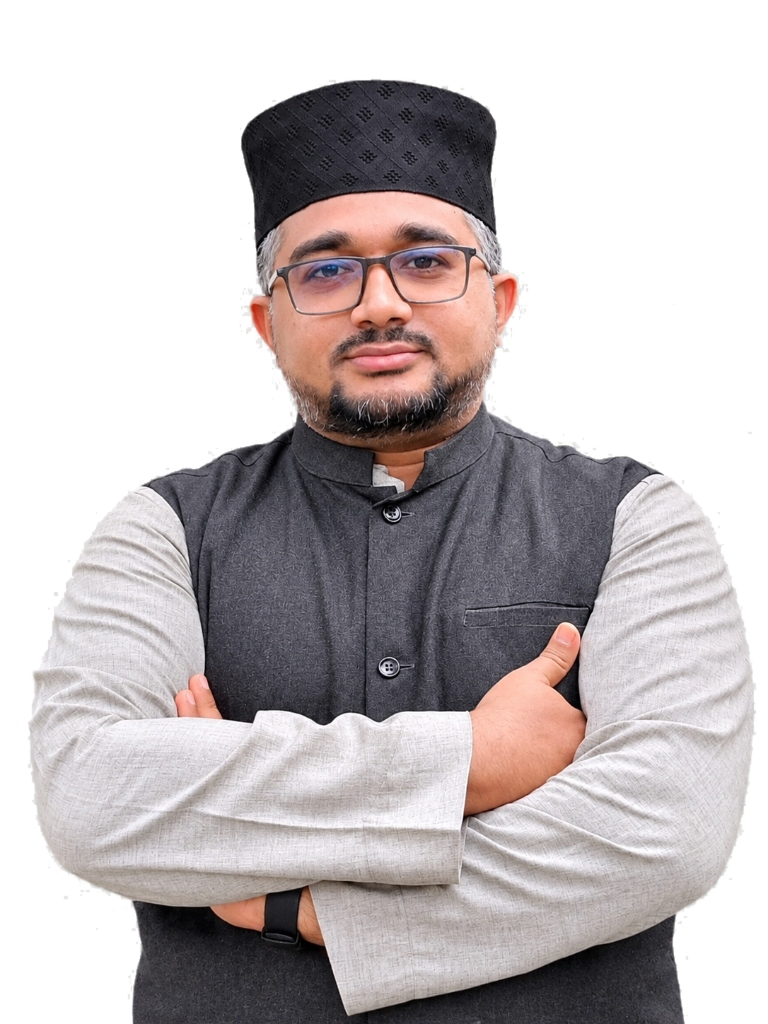
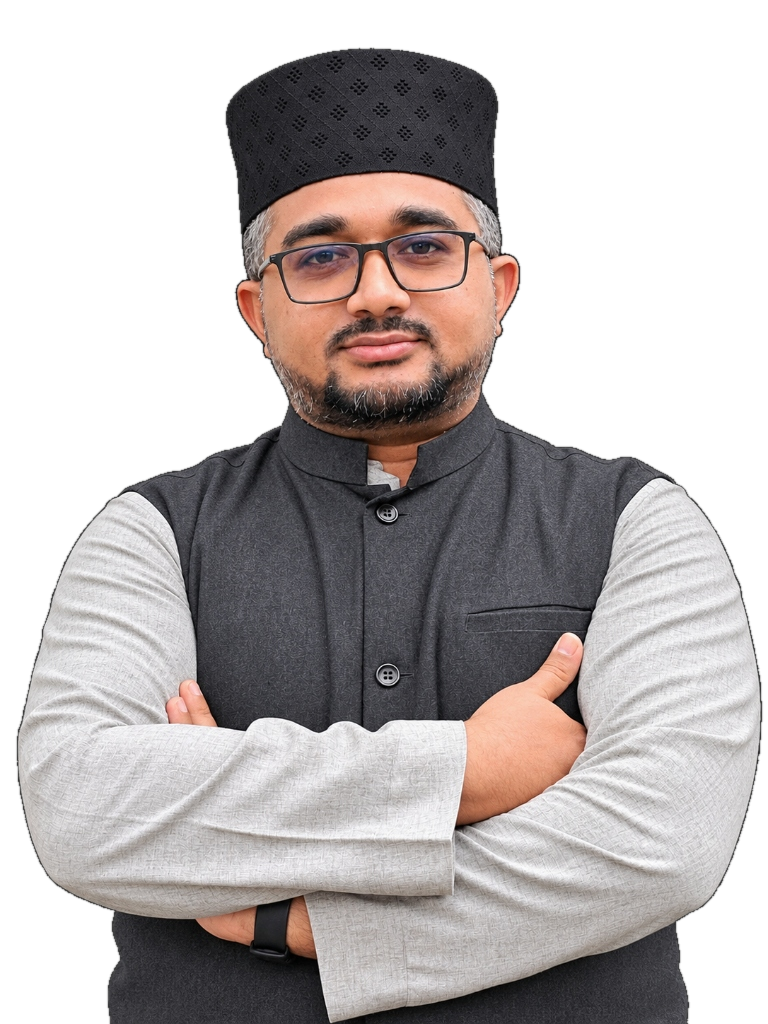
feat: integrate clean transparent cutout from black background source, eliminating edge speckles

Changed region(s): [[0.0, 0.0312, 1.0, 1.0]]

diff --git a/data/siteData.ts b/data/siteData.ts
@@ -262,10 +262,10 @@ export const siteConfig = {
     wavingMic: "/images/jaufar-cutout.png",
     armsCrossed: "/images/jaufar-arms-crossed.png",
     cutout: "/images/jaufar-arms-crossed.png",
-    frontPose: "/images/jaufar-front-pose.png",
-    suitCutout: "/images/jaufar-front-pose.png",
+    frontPose: "/images/jaufar-front-pose-clean.png",
+    suitCutout: "/images/jaufar-front-pose-clean.png",
     auditorium: "/images/auditorium-packed.png",
-    about: "/images/jaufar-front-pose.png",
+    about: "/images/jaufar-front-pose-clean.png",
     action1: "/images/speaking-session-1.jpg",
     action2: "/images/workshop-session-1.jpg",
     action3: "/images/training-session-1.jpg",
